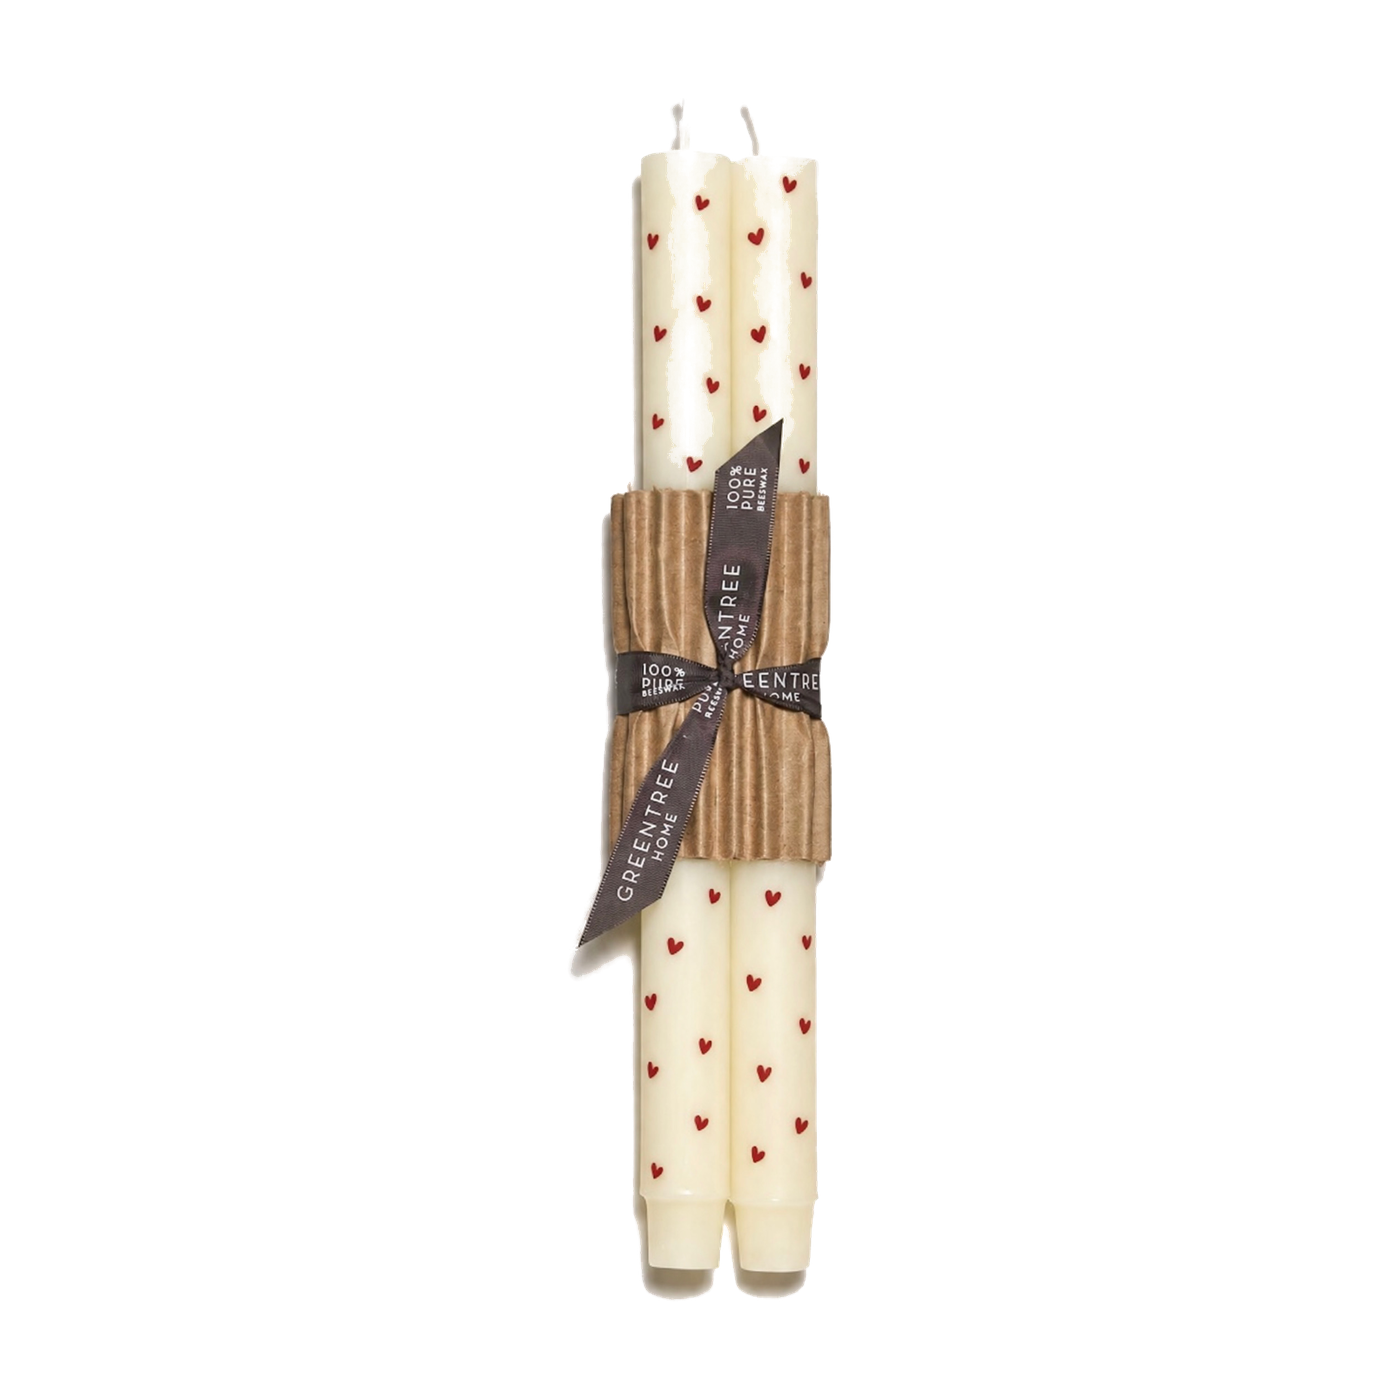
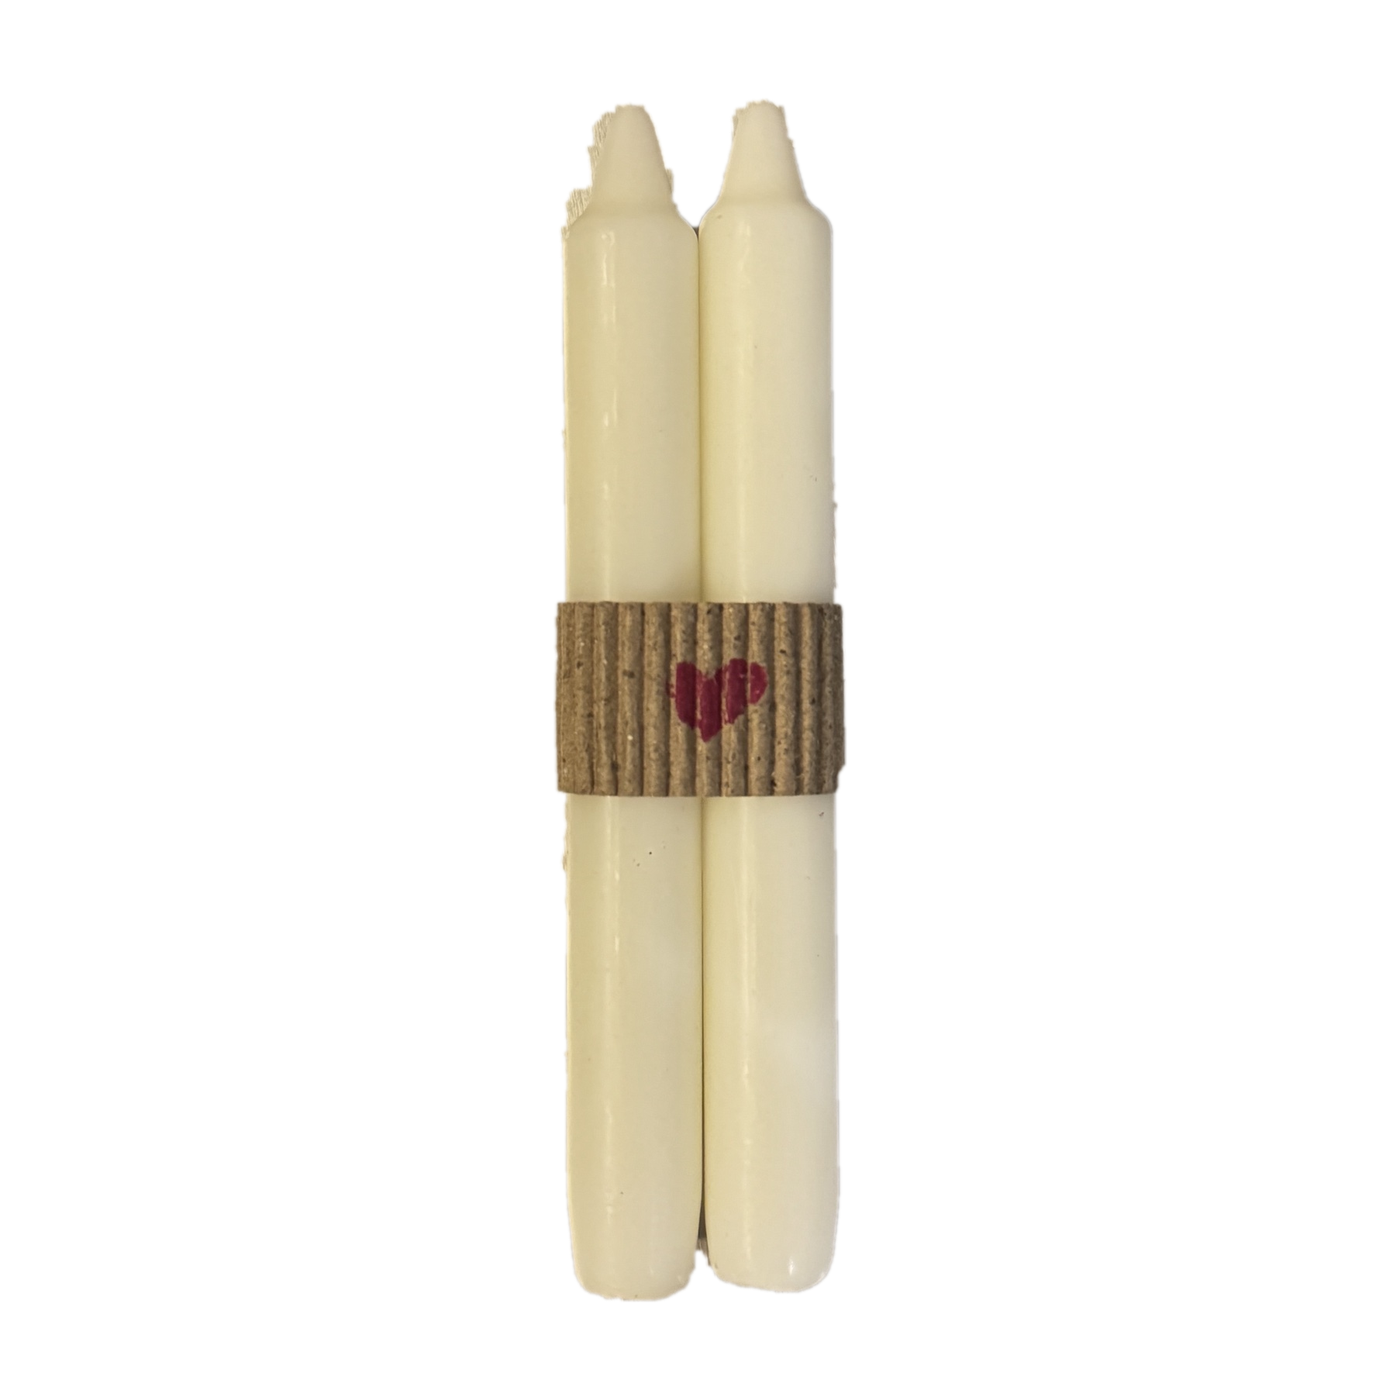
Put the real candle-stick photograph on the shelf
Nayef's shots arrived: the four candle tins, both lighter colourways, the
tapers in their heart band, and the matches label. One of them cuts out
cleanly, and it is here — the tapers, wicks and corrugated band intact,
trimmed and re-centred like the rest of the shelf.

The other three do not, and it is worth writing down why rather than
shipping a poor cut. All five were shot on brushed steel under directional
light. Measured across the frame, product and counter share the same
distribution: saturation sits at 66 (p50) against 89 (p95) on the candles
shot, so there is no colour that separates a silver tin from the silver it
stands on. Three methods were tried against that:

  colour connectivity  the method that cut the mockups — no border colour
                       to flood from, the counter is a gradient
  edge energy          the method that cut the matchbox on the painted wall
                       — the steel's own highlights and brush grain out-edge
                       the product's outline
  GrabCut, two-pass    much closer: every product is found, but a slab of lit
                       steel stays welded to three of them, and feeding the
                       result back as a trimap does not shake it loose

A U^2-Net background remover would very likely manage it; the wheel would
not download here.

So: candle-sticks is real now. Candles, lighters and match-sticks stay on
their mockups until either those three are cut by hand, or reshot on a matte
[…]

Changed region(s): [[0.3686, 0.0614, 0.6143, 0.9521]]

diff --git a/src/app/content/retail.ts b/src/app/content/retail.ts
@@ -46,7 +46,7 @@ export type CartLine = {
  *   candles        the four stacked MANTEL tins
  *   lighters       the leopard-print lighter (the checkerboard one is a second
  *                  colourway — a nice second shot if the card ever takes two)
- *   candle-sticks  the pair of cream tapers in the corrugated heart band
+ *   candle-sticks  DONE (2026-09-16) — the real tapers, cut off the steel
  *   match-sticks   the MANTEL safety-matches label
  *   custom-bags    the "Mantel." tote (the red-heart tote is the other face)
  *   matcha-powder  STILL NEEDED — no photograph of it yet
